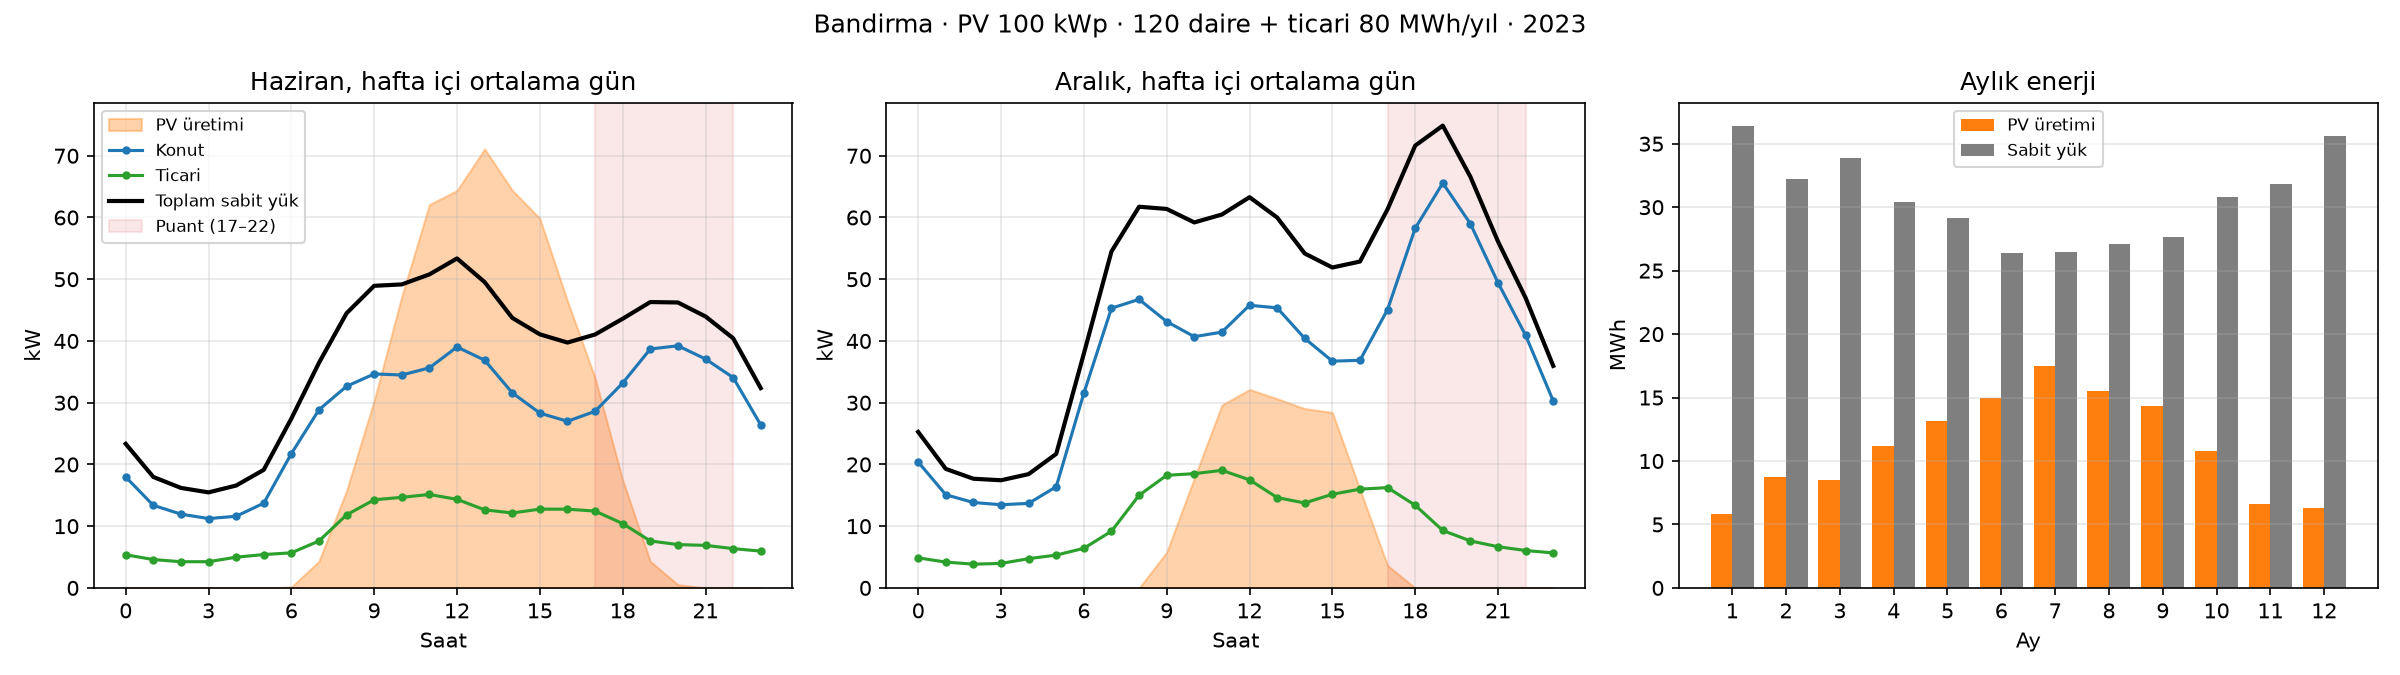
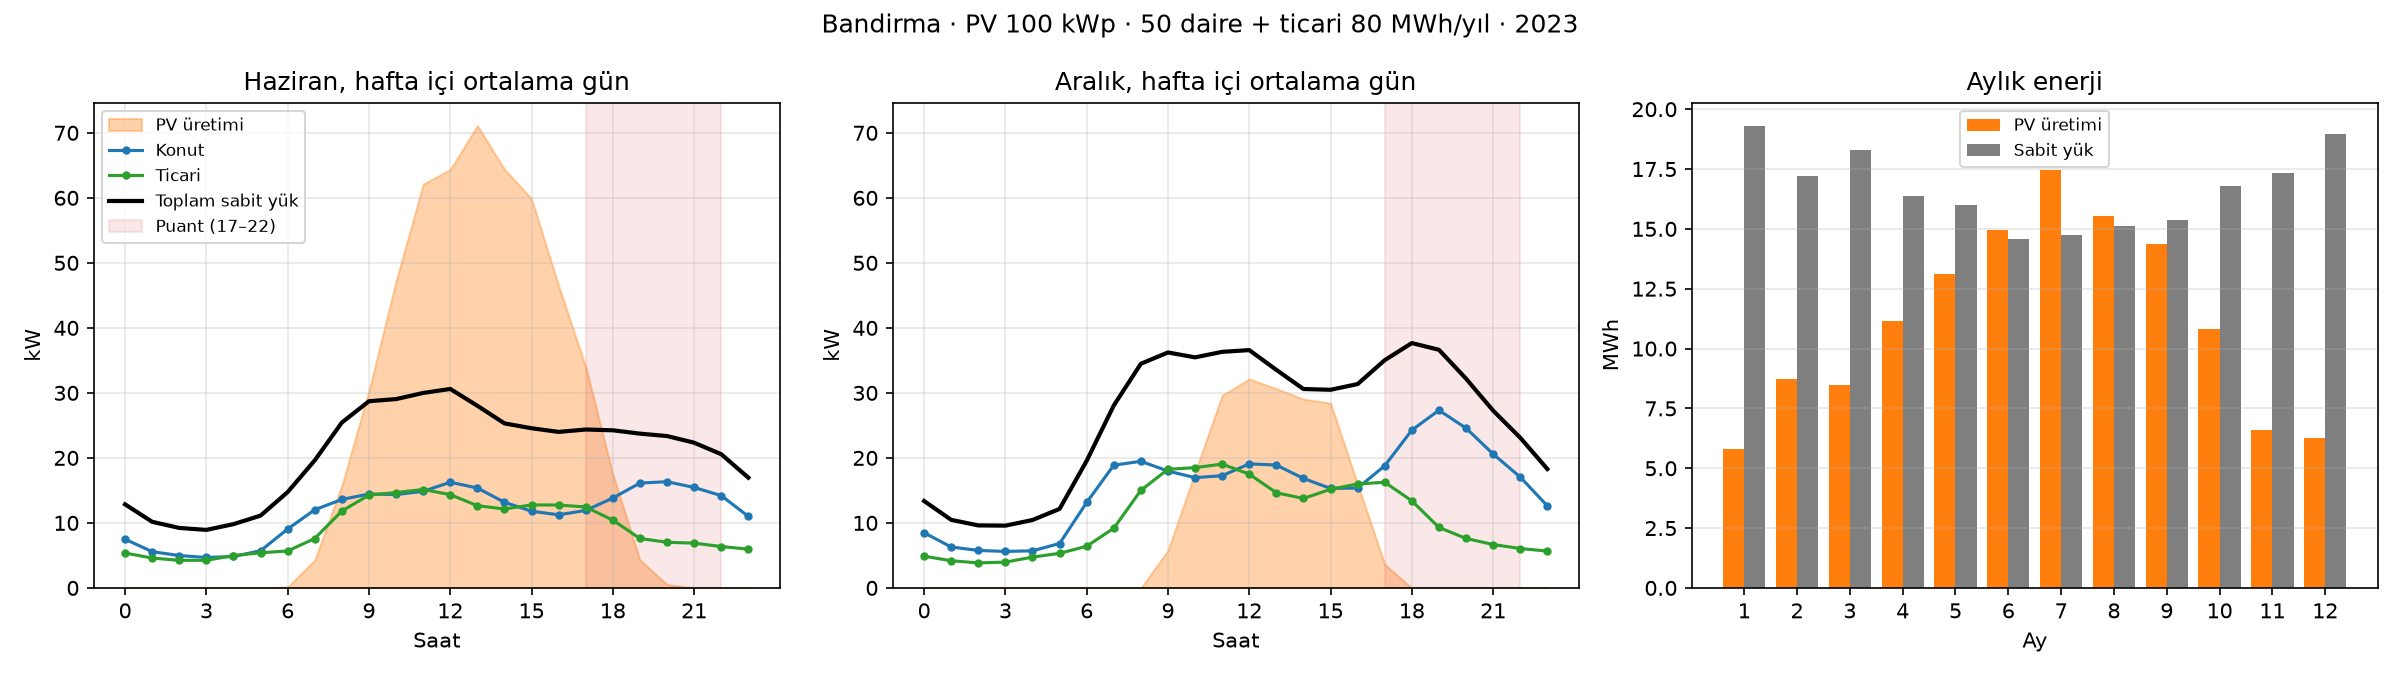
YM-1 Hafta 2: site büyüklüğü EM-1 kararına göre (50 daire, 200 MWh/yıl)
- config: 50 daire × 2400 kWh + ortak alan/dükkânlar 80 MWh
- Rapor ve veri dokümanı yeni sonuçlarla güncellendi; temsili gün ve istasyon tipi kararları işlendi

diff --git a/docs/veri-kaynaklari.md b/docs/veri-kaynaklari.md
@@ -112,9 +112,9 @@ Site otoparkının bağlı olduğu binaların (daireler, ortak alanlar, küçük
   - Hafta içi / cumartesi / pazar ayrımı ve kış / yaz / geçiş dönemi profilleri vardır. Çözünürlük 15 dk, biz saatliğe ortalıyoruz.
 - **Türkiye'ye uyarlama:** Resmî tatiller (`holidays` paketi, 2023: Ramazan ve Kurban bayramları dahil 13 gün) pazar gibi işlenir.
   Türkiye yaz saati uygulamadığı için saatler doğrudan yerel saat kabul edilir.
-- **Ölçek (`config/default.yaml → loads`, TASLAK):** 120 daire × 2400 kWh/yıl = 288 MWh (konut),
-  ticari 80 MWh/yıl. Toplam 368 MWh/yıl. Daire başına tüketim bir varsayım; EPDK/TÜİK verisiyle doğrulanacak.
-  Daire sayısı EM-1'in boyutlandırmasıyla kesinleşecek; değişince yalnızca config değişir.
+- **Ölçek (`config/default.yaml → loads`, EM-1 kararı):** 50 daire × 2400 kWh/yıl = 120 MWh (konut),
+  ortak alan ve dükkânlar 80 MWh/yıl. Toplam 200 MWh/yıl, araç şarjı hariç.
+  Daire başına 2400 kWh bir başlangıç varsayımı; değişirse yalnızca config değişir.
 - **Çıktı:** `data/processed/yuk_profilleri_2023.csv`, sütunlar `residential_kw`, `commercial_kw`, `total_kw` (kW, saatlik ortalama güç;
   saatlik olduğu için değer aynı zamanda o saatin kWh'idir).
 - **Temsili gün:** `loads.average_day(df, months=[6], weekdays=[0,1,2,3,4])` seçilen ay ve günlerin 24 saatlik ortalamasını verir.
@@ -124,23 +124,24 @@ Site otoparkının bağlı olduğu binaların (daireler, ortak alanlar, küçük
     profilde yok. Hocaya sorulacak (aşağıda).
   - Isınma elektrikle değil doğalgazla yapıldığı varsayılıyor (BDEW H0 da öyle).
 
-**İlk sonuçlar:** Konut tepesi akşam 19:00'da. Aralıkta hafta içi ortalama toplam sabit yük 19:00'da ~75 kW, yıllık tepe 84 kW
-(30 Aralık 19:00). Haziranda öğlen PV (~71 kW) sabit yükü (~53 kW) aşıyor, 19:00'da ise PV 4 kW'a düşmüşken yük 46 kW.
-Yıllık PV üretiminin (133 MWh) %86'sı aynı saatte sabit yük tarafından tüketilebiliyor; kalan ~19 MWh fazla
-bataryaya (BESS) veya araçlara gidebilir.
+**İlk sonuçlar:** Aralıkta hafta içi ortalama sabit yük 18:00'de en yüksek (~38 kW), 19:00'da ~37 kW. Yıllık tepe 41 kW.
+Haziranda öğlen PV (~71 kW) sabit yükün (~31 kW) iki katından fazla; 19:00'da ise PV 4 kW'a düşmüşken yük 24 kW.
+Yıllık PV üretiminin (133 MWh) %59'u aynı saatte sabit yük tarafından tüketilebiliyor; kalan ~54 MWh fazla
+bataryaya (BESS) veya araçlara gidebilir. Şebekeye satış şimdilik modelde yok (sonraki aşamada eklenecek).
 
 ![PV ve sabit yük](raporlar/hafta2-ym1-pv-yuk.png)
 
 **Proje açısından anlamı:** Akşam sabit yük tepesi (19:00), puant tarifesi (17–22) ve ortalama araç varışı (18:30) aynı saate denk geliyor,
-PV ise o saatte yok. Kontrolsüz şarj, zaten en yüksek olan yükün üstüne biniyor: 400 kVA trafoda sabit yük ~85 kW iken
-istasyon 150 kW'a kadar çekebiliyor.
+PV ise o saatte yok. Kontrolsüz şarj, zaten en yüksek olan yükün üstüne biniyor: akşam sabit yük ~38 kW iken istasyon
+150 kW'a kadar çekebiliyor. Toplam ~188 kW, sitenin şebekeden çekebileceği 180 kW sınırını aşıyor (EM-1 sınırları:
+istasyon 150 kW, site 180 kW, trafo 400 kVA).
 
 ## Ekibe ve hocaya sorular
 
 1. **Tarife grubu:** Mesken mi, ticarethane mi? (Öneri: mesken, site otoparkı.)
 2. **Vergiler:** Maliyet KPI'ı vergi hariç mi verilsin? (Öneri: hariç.)
 3. **ACN-Data (YM-2):** Varış saatleri işyeri profiline göre. Enerji ihtiyacını ACN'den, saatleri sentetik dağılımdan almak uygun mu?
-4. **Temsili gün (herkes):** Hangi gün temsil edecek? Öneri: v0 için yıllık ortalama veya Haziran ve Aralık ortalama günleri.
+4. ~~**Temsili gün:**~~ Karar: Haziran ve Aralık'ın hafta içi ortalama günleri.
 5. **Yük profili (hoca):** Alman BDEW standart profilleri Türkiye'deki bir site için kabul edilebilir mi, yoksa Türkiye'ye özgü
    bir profil (ör. dağıtım şirketi verisi) bekleniyor mu?
 6. **Ölçek (EM-1):** Site kaç daire? Daire başına yıllık tüketim için 2400 kWh varsayımı uygun mu?

diff --git a/docs/raporlar/hafta2-ym1-raporu.md b/docs/raporlar/hafta2-ym1-raporu.md
@@ -11,7 +11,7 @@ Rapor: Perşembe 22 Ekim
 - **Konut ve ticari yük profilleri hazırlandı (saatlik).** BDEW standart profilleri (H0 konut, G0 ticari) Türkiye resmî
   tatilleriyle üretilip config'deki yıllık tüketimle ölçekleniyor: `python -m microgrid.data.loads` →
   `data/processed/yuk_profilleri_2023.csv`.
-  Taslak ölçek: 120 daire × 2400 kWh + ticari 80 MWh, toplam 368 MWh/yıl.
+  Ölçek (EM-1 kararı): 50 daire × 2400 kWh + ortak alan/dükkânlar 80 MWh, toplam 200 MWh/yıl (araç şarjı hariç).
 - **Temsili gün fonksiyonu:** `average_day(df, months, weekdays)` hem PV hem yük için 24 saatlik ortalama gün veriyor.
   v0'daki temsili gün kararına hazır.
 - **Testler:** PV temizleme (3 test) ve yük profilleri (4 test) eklendi. İnternete çıkmadan çalışıyorlar. Toplam 13 test geçiyor.
@@ -24,21 +24,23 @@ Rapor: Perşembe 22 Ekim
 | | Haziran (hafta içi) | Aralık (hafta içi) |
 | --- | --- | --- |
 | PV tepe (100 kWp) | 71 kW, 13:00 | 32 kW, 12:00 |
-| Sabit yük tepe | 53 kW, 12:00 | 75 kW, 19:00 |
-| 19:00'da PV / sabit yük | 4 kW / 46 kW | 0 kW / 75 kW |
+| Sabit yük tepe | 31 kW, 12:00 | 38 kW, 18:00 |
+| 19:00'da PV / sabit yük | 4 kW / 24 kW | 0 kW / 37 kW |
 
-Yıllık: PV 133 MWh, sabit yük 368 MWh, yıllık tepe yük 84 kW (30 Aralık 19:00).
-PV'nin %86'sı aynı saatte sabit yükte tüketiliyor; ~19 MWh fazla, BESS veya akıllı şarj için kullanılabilir.
+Yıllık: PV 133 MWh, sabit yük 200 MWh, yıllık tepe yük 41 kW.
+PV'nin %59'u aynı saatte sabit yükte tüketiliyor; ~54 MWh fazla, BESS veya akıllı şarj için kullanılabilir.
 
 **Yorum:** Akşam sabit yük tepesi, puant tarifesi (17–22) ve araçların varışı (~18:30) aynı saatte. PV o saatte yok.
-Kontrolsüz şarj en yüksek yükün üstüne biniyor; bu, akıllı şarj ve BESS senaryolarının neden gerektiğini veriyle gösteriyor.
+Kontrolsüz şarj en yüksek yükün üstüne biniyor: ~38 kW sabit yük + 150 kW istasyon, sitenin 180 kW şebeke sınırını aşıyor.
+Bu, akıllı şarj ve BESS senaryolarının neden gerektiğini veriyle gösteriyor.
 
 ## Sorunlar ve hocaya sorular
 
 - BDEW profilleri Almanya kaynaklı. Türkiye'deki bir site için kabul edilebilir mi? (Yaz klima yükü profilde yok.)
-- Daire sayısı ve daire başına tüketim varsayım. EM-1'in boyutlandırmasıyla kesinleşecek.
-- YM-2'nin parametre tablosunda istasyon konsepti "Karma Ticari / AVM", kapsam dokümanında "site otoparkı" yazıyor.
-  Ekipte netleşmeli. Yük profillerindeki konut/ticari oranı buna göre değişir (yalnızca config).
+- Site büyüklüğü EM-1 ile kesinleşti: 50 daire, 200 MWh/yıl. Daire başına 2400 kWh başlangıç varsayımı.
+- İstasyon tipi: site otoparkı (ekip kararı).
+- Temsili gün: Haziran ve Aralık'ın hafta içi ortalama günleri (ekip kararı).
+- PV fazlasının şebekeye satışı sonraki aşamaya bırakıldı.
 
 ## Gelecek hafta (Hafta 3)
 
